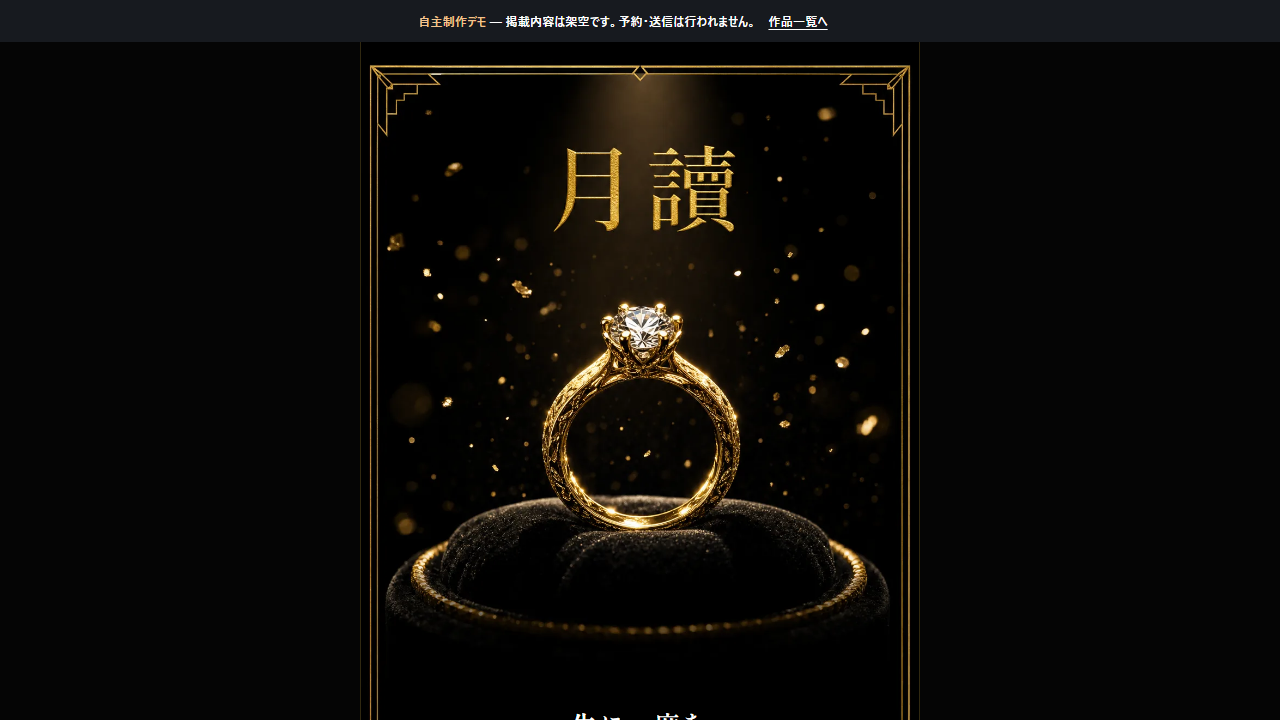
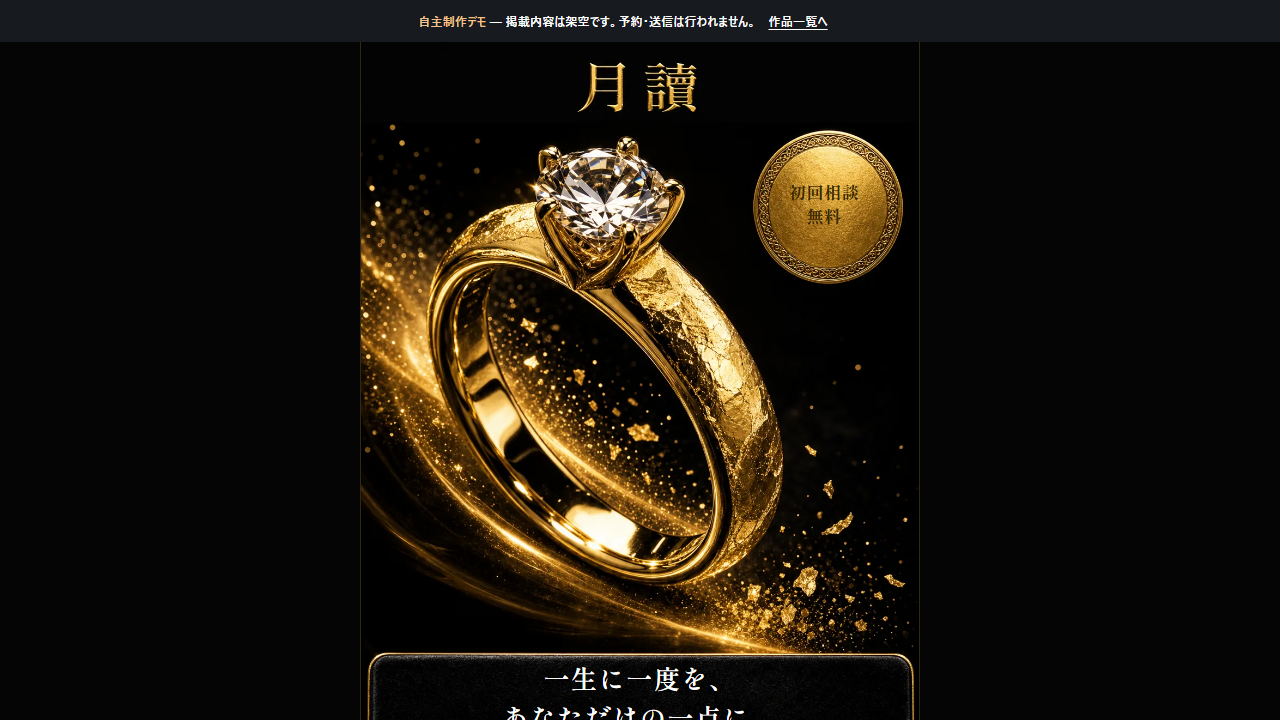
月讀のヒーローを受け皿方式v2に差し替え（訴求改善ループの成果）
FVを「商品写真＋後付け文字」から「広告面」に作り直した。
- 指輪を過剰スケール・斜め・光の尾でドラマ化
- 空の受け皿（金箔バッジ・ベルベット帯・光沢金ピル)を画像内に生成し、
  初回相談無料・キャッチ・価格・CTAをHTMLオーバーレイで受け皿に載せた
  （文言即日修正は維持）
- 3秒テスト 8/15→14/15。320-1440px ではみ出し・横スクロールなしを実測

diff --git a/tsukuyomi/index.html b/tsukuyomi/index.html
@@ -43,6 +43,12 @@
   /* 訴求ゲート用: ファーストビューで業種と価格帯を言い切る一行 */
   .ov-sub{font-size:clamp(14px,3.5vw,16px);color:var(--main);font-weight:400;
           text-shadow:0 2px 10px rgba(0,0,0,.9);}
+  /* 受け皿方式（image-lp-craft.md §2.5）: 画像内に生成した空の受け皿へ文字を載せる */
+  .ov-badge{font-family:var(--serif);font-weight:800;color:#3B2A00;flex-direction:column;
+            font-size:clamp(14px,3.8vw,17px);letter-spacing:.04em;line-height:1.4;text-shadow:none;}
+  .ov-cta{font-family:var(--sans);font-weight:700;color:#1A1200;
+          font-size:clamp(15px,4.2vw,19px);letter-spacing:.06em;text-decoration:none;}
+  .ov-cta:hover{filter:brightness(1.15);}
   .btn{background:var(--main);color:var(--base);text-decoration:none;font-weight:500;font-family:var(--sans);
        border-radius:999px;font-size:clamp(14px,3.9vw,17px);letter-spacing:.08em;
        box-shadow:0 6px 22px rgba(201,162,39,.32);}
@@ -83,13 +89,14 @@
 <div class="lp">
   <h1 class="sr-only">月讀（つくよみ）— 図面から仕上げまで彫金師がひとつずつ手がける、オーダーメイド結婚指輪のアトリエ</h1>
 
-  <!-- ゾーンA+B: スライス1（ヒーロー） -->
+  <!-- ゾーンA+B: スライス1（ヒーロー・受け皿方式 v2） -->
   <div class="slice">
     <img src="images/01-hero.webp" width="1024" height="1820" loading="eager"
-         alt="ヒーロー: 月讀（つくよみ）。黒いベルベットの上で金の婚約指輪にスポットライトが当たっている。一生に一度を、あなただけの一点に。">
-    <p class="overlay ov-catch" style="top:59.5%;left:8%;width:84%;height:11.5%;">一生に一度を、<br>あなただけの一点に。</p>
-    <p class="overlay ov-sub" style="top:71.5%;left:6%;width:88%;height:9.5%;">オーダーメイドの結婚指輪・婚約指輪／ペア248,000円〜</p>
-    <a class="overlay btn" href="#form" style="top:82%;left:14%;width:72%;height:7.2%;">無料でデザイン相談する</a>
+         alt="ヒーロー: 月讀（つくよみ）。金の婚約指輪が光の尾を引いて斜めに浮かぶ。初回相談無料。一生に一度を、あなただけの一点に。オーダーメイドの結婚指輪・婚約指輪 ペア248,000円から。">
+    <p class="overlay ov-badge" style="top:9.6%;left:70.5%;width:25%;height:13.5%;">初回相談<br>無料</p>
+    <p class="overlay ov-catch" style="top:60.9%;left:4%;width:92%;height:10.3%;line-height:1.5;">一生に一度を、<br>あなただけの一点に。</p>
+    <p class="overlay ov-sub" style="top:71.4%;left:4%;width:92%;height:6.6%;line-height:1.3;">オーダーメイドの結婚指輪・婚約指輪<br>ペア 248,000円〜（税込）</p>
+    <a class="overlay ov-cta" href="#form" style="top:80.3%;left:17.5%;width:65%;height:10%;">無料でデザイン相談する →</a>
   </div>
 
   <!-- ゾーンA+B: スライス2（世界観・彫金） -->
